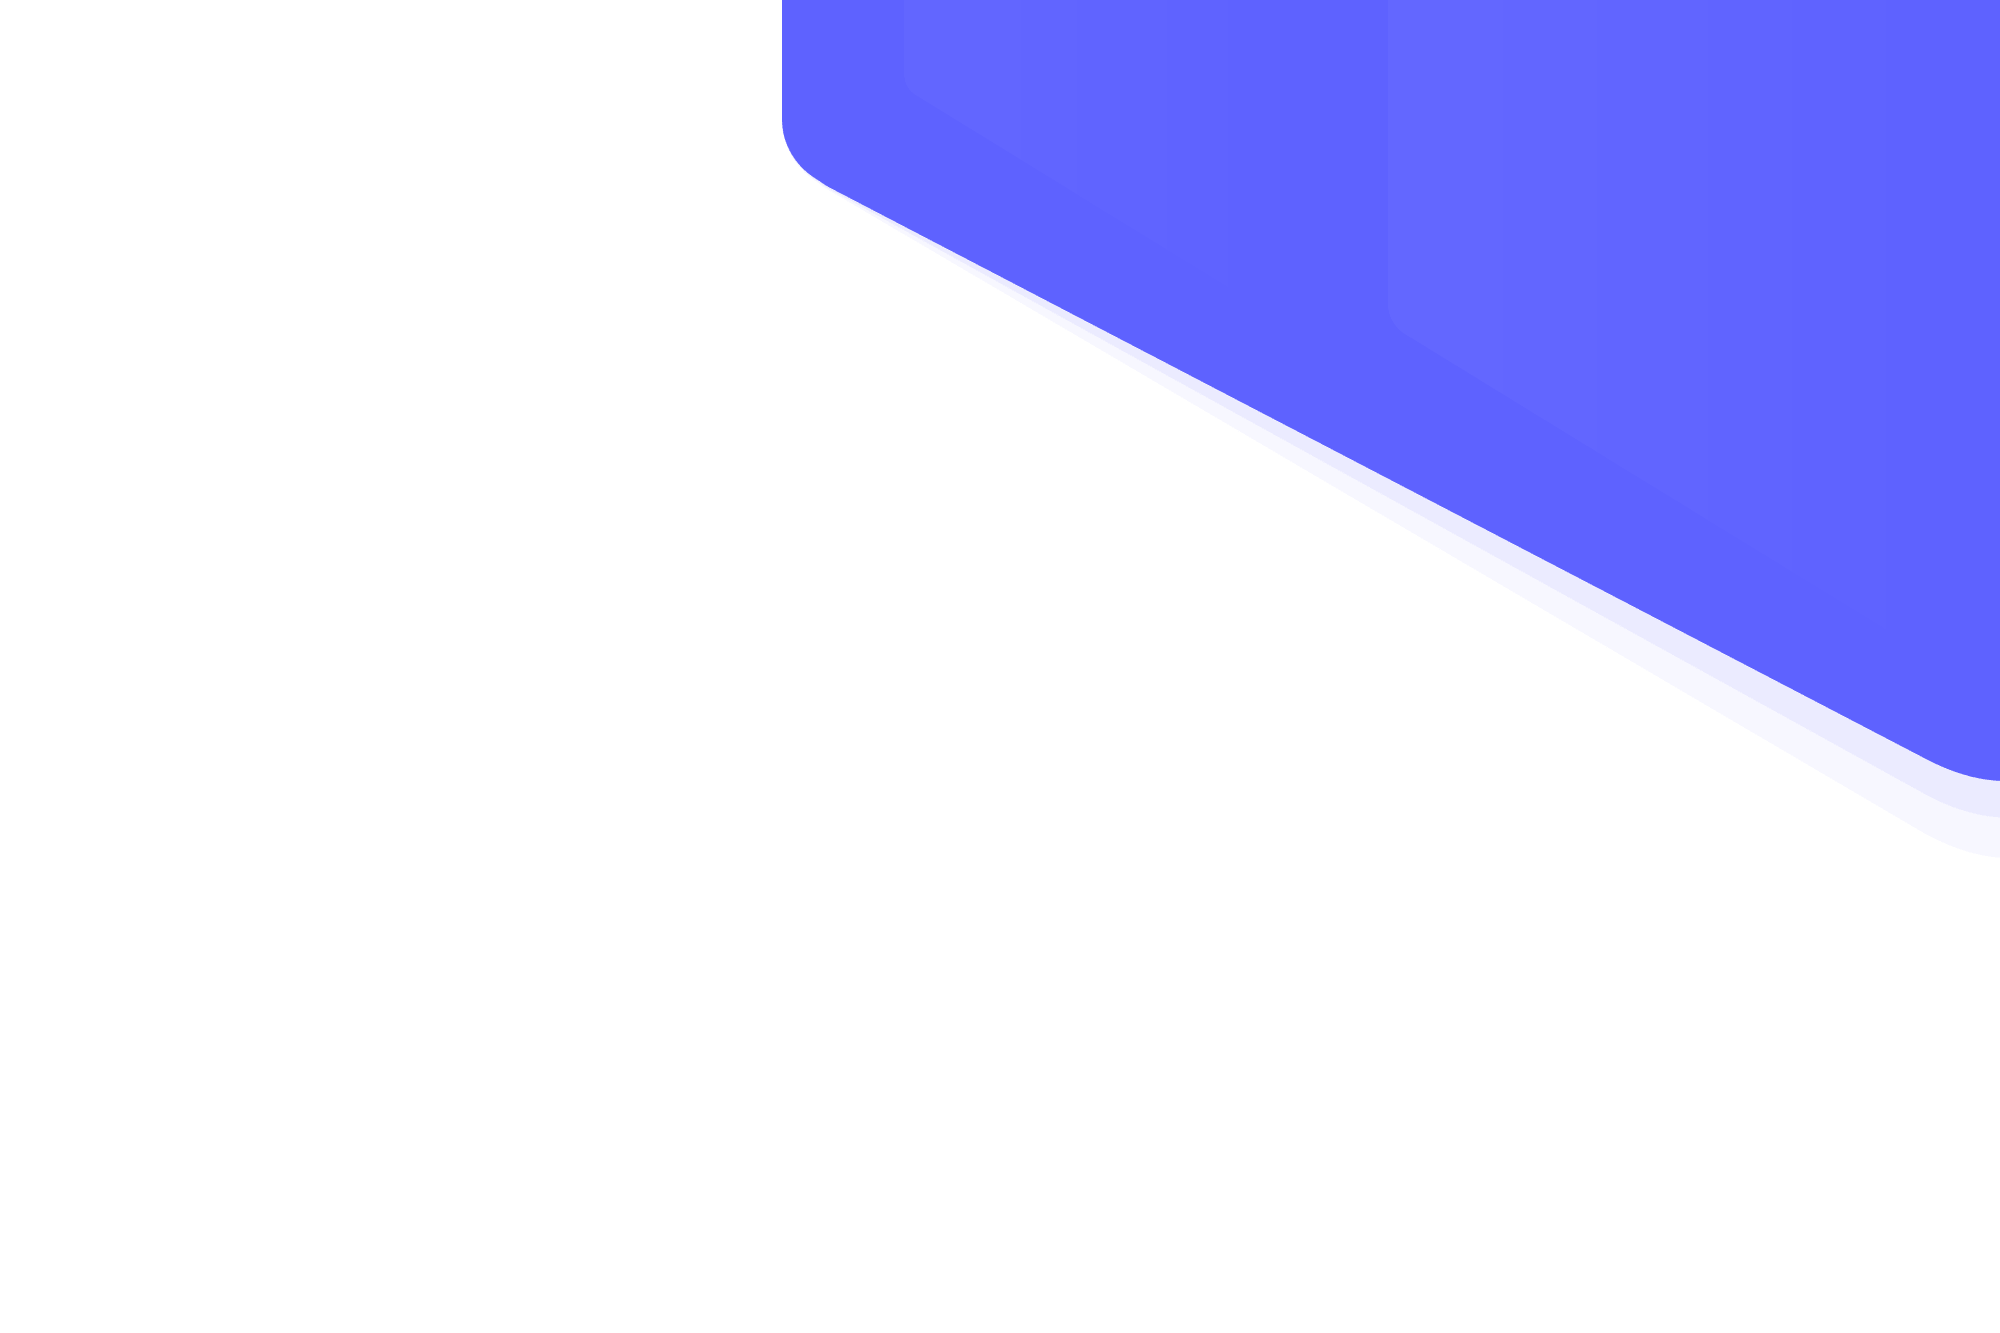
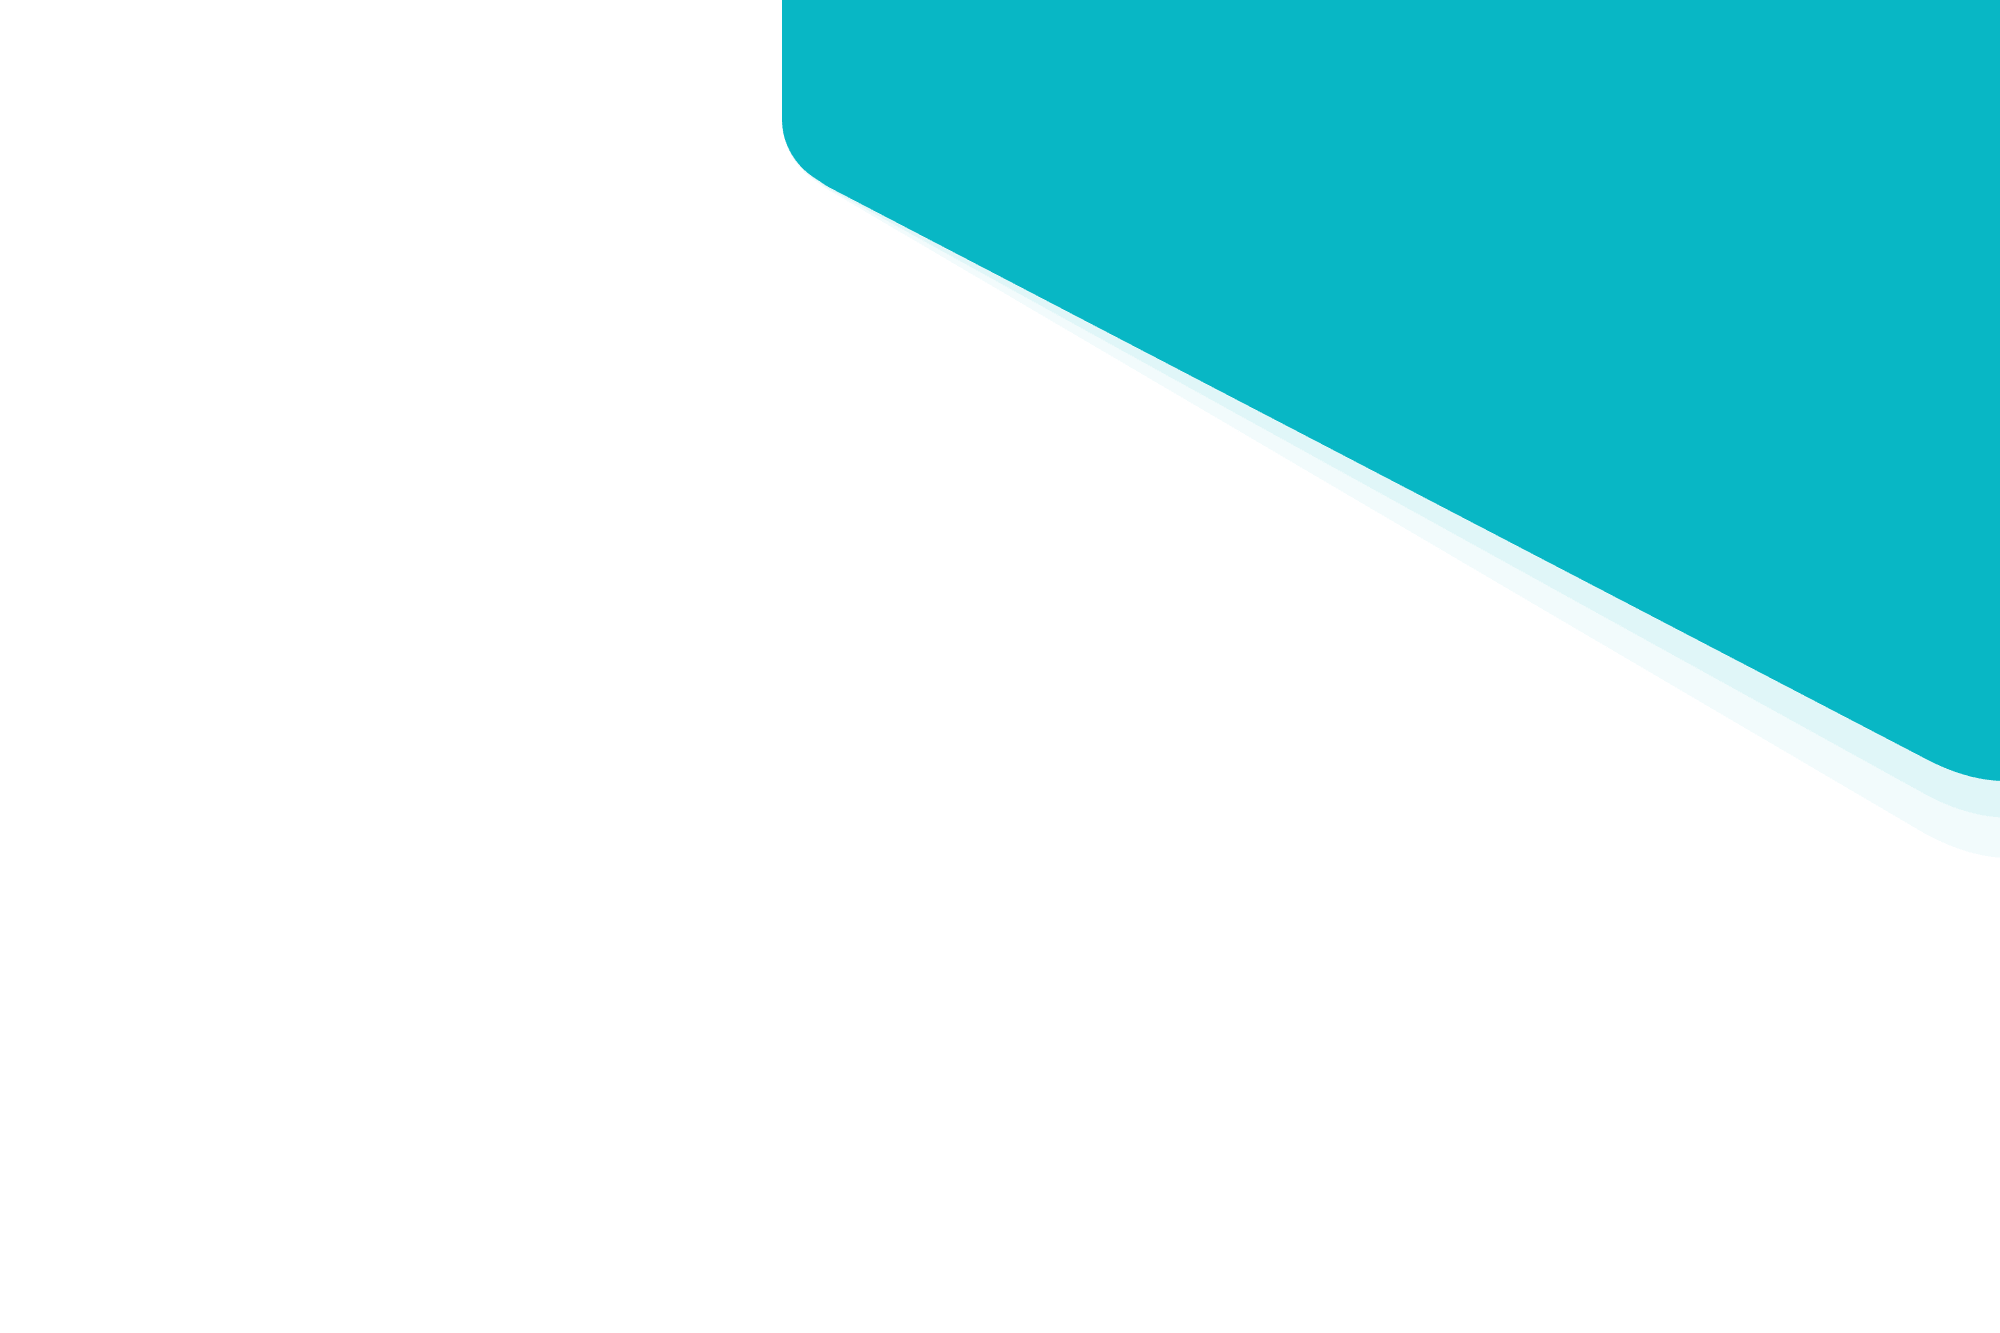
'update'

Changed region(s): [[0.372, 0.0, 1.0, 0.5844]]

diff --git a/public/ladun/neloz/css/style.css b/public/ladun/neloz/css/style.css
@@ -116,7 +116,7 @@ h1, h2, h3, h4, h5, h6 {
 .nav .open > a:focus,
 .nav .open > a:hover {
   background-color: transparent;
-  border-color: #5e62ff;
+  border-color: #08b7c5;
 }
 
 .menu-toggle {
@@ -151,7 +151,7 @@ h1, h2, h3, h4, h5, h6 {
 }
 
 .nav-sticky.navbar-custom .navbar-nav li.active a, .nav-sticky.navbar-custom .navbar-nav li a:hover, .nav-sticky.navbar-custom .navbar-nav li a:active {
-  color: #5e62ff !important;
+  color: #08b7c5 !important;
 }
 
 .nav-sticky .logo .logo-dark {
@@ -171,7 +171,7 @@ h1, h2, h3, h4, h5, h6 {
 }
 
 .navbar-light .navbar-nav li.active a, .navbar-light .navbar-nav li a:hover, .navbar-light .navbar-nav li a:active {
-  color: #5e62ff !important;
+  color: #08b7c5 !important;
 }
 
 @media (min-width: 200px) and (max-width: 768px) {
@@ -195,7 +195,7 @@ h1, h2, h3, h4, h5, h6 {
     border-color: transparent;
   }
   .navbar-custom .navbar-nav li.active a, .navbar-custom .navbar-nav li a:hover, .navbar-custom .navbar-nav li a:active {
-    color: #5e62ff !important;
+    color: #08b7c5 !important;
   }
   .navbar-custom > .container {
     width: 90%;
@@ -228,7 +228,7 @@ h1, h2, h3, h4, h5, h6 {
     color: #9090a5 !important;
   }
   .nav-dark .navbar-nav li.active a, .nav-dark .navbar-nav li a:hover, .nav-dark .navbar-nav li a:active {
-    color: #5e62ff !important;
+    color: #08b7c5 !important;
   }
 }
 
@@ -267,8 +267,8 @@ h1, h2, h3, h4, h5, h6 {
 }
 
 .btn.btn-primary {
-  background-color: #5e62ff !important;
-  border: 1px solid #5e62ff !important;
+  background-color: #08b7c5 !important;
+  border: 1px solid #08b7c5 !important;
   color: #ffffff;
   -webkit-box-shadow: 0 4px 20px rgba(94, 98, 255, 0.15);
           box-shadow: 0 4px 20px rgba(94, 98, 255, 0.15);
@@ -283,13 +283,13 @@ h1, h2, h3, h4, h5, h6 {
 }
 
 .btn.btn-outline-primary {
-  border: 1px solid #5e62ff !important;
-  color: #5e62ff !important;
+  border: 1px solid #08b7c5 !important;
+  color: #08b7c5 !important;
 }
 
 .btn.btn-outline-primary:hover, .btn.btn-outline-primary:focus, .btn.btn-outline-primary.focus, .btn.btn-outline-primary:active, .btn.btn-outline-primary.active {
-  background-color: #5e62ff !important;
-  border: 1px solid #5e62ff !important;
+  background-color: #08b7c5 !important;
+  border: 1px solid #08b7c5 !important;
   -webkit-box-shadow: 0 3px 10px rgba(94, 98, 255, 0.5);
           box-shadow: 0 3px 10px rgba(94, 98, 255, 0.5);
   color: #ffffff !important;
@@ -648,18 +648,18 @@ h1, h2, h3, h4, h5, h6 {
   background: rgba(94, 98, 255, 0.1);
   -webkit-box-shadow: 0 1px 2px rgba(94, 98, 255, 0.5);
           box-shadow: 0 1px 2px rgba(94, 98, 255, 0.5);
-  color: #5e62ff;
+  color: #08b7c5;
 }
 
 /* 
 // 04.Helper
 */
 .text-primary {
-  color: #5e62ff !important;
+  color: #08b7c5 !important;
 }
 
 .bg-primary {
-  background-color: #5e62ff !important;
+  background-color: #08b7c5 !important;
 }
 
 .text-secondary {
@@ -787,8 +787,8 @@ h1, h2, h3, h4, h5, h6 {
 }
 
 .bg-gradient-primary {
-  background: -webkit-gradient(linear, right bottom, left top, from(#56c6e6), to(#5e62ff));
-  background: linear-gradient(to top left, #56c6e6 0%, #5e62ff 100%);
+  background: -webkit-gradient(linear, right bottom, left top, from(#56c6e6), to(#08b7c5));
+  background: linear-gradient(to top left, #56c6e6 0%, #08b7c5 100%);
 }
 
 .line-height-1_6 {
@@ -848,7 +848,7 @@ h1, h2, h3, h4, h5, h6 {
 }
 
 .more-info {
-  color: #5e62ff;
+  color: #08b7c5;
 }
 
 /* 
@@ -860,8 +860,8 @@ h1, h2, h3, h4, h5, h6 {
   left: 0;
   right: 0;
   bottom: 0;
-  background: -webkit-gradient(linear, right bottom, left top, from(#56c6e6), to(#5e62ff));
-  background: linear-gradient(to top left, #56c6e6 0%, #5e62ff 100%);
+  background: -webkit-gradient(linear, right bottom, left top, from(#56c6e6), to(#08b7c5));
+  background: linear-gradient(to top left, #56c6e6 0%, #08b7c5 100%);
   z-index: 9999999;
 }
 
@@ -1026,7 +1026,7 @@ h1, h2, h3, h4, h5, h6 {
 .hero-1-bg .main-title {
   font-size: 2.8rem;
   line-height: 1.35;
-  color: #5e62ff;
+  color: #08b7c5;
 }
 
 .hero-2-bg {
@@ -1261,7 +1261,7 @@ h1, h2, h3, h4, h5, h6 {
   width: 74px;
   line-height: 74px;
   text-align: center;
-  color: #5e62ff;
+  color: #08b7c5;
   font-size: 30px;
   -webkit-transition: all 0.3s;
   transition: all 0.3s;
@@ -1327,7 +1327,7 @@ h1, h2, h3, h4, h5, h6 {
 
 .feature-box:after {
   content: "";
-  background: #5e62ff;
+  background: #08b7c5;
   height: 1px;
   width: 0%;
   position: absolute;
@@ -1358,7 +1358,7 @@ h1, h2, h3, h4, h5, h6 {
 // 11.Counter
 */
 .counter-bg {
-  background: #5e62ff;
+  background: #08b7c5;
 }
 
 .counter-bg .counter-bg-overlay {
@@ -1401,14 +1401,14 @@ h1, h2, h3, h4, h5, h6 {
 }
 
 .pricing-box.active .pricing-title, .pricing-box:hover .pricing-title {
-  color: #5e62ff;
+  color: #08b7c5;
 }
 
 .pricing-box .ribbon {
   position: absolute;
   left: 20px;
   top: 0px;
-  background: #5e62ff;
+  background: #08b7c5;
   padding: 8px 4px 16px 4px;
   -webkit-clip-path: polygon(0 0, 100% 0, 100% 100%, 50% 80%, 0 100%);
   clip-path: polygon(0 0, 100% 0, 100% 100%, 50% 80%, 0 100%);
@@ -1431,7 +1431,7 @@ h1, h2, h3, h4, h5, h6 {
 .owl-carousel.owl-theme .owl-dots .owl-dot:hover span {
   width: 20px;
   height: 4px;
-  background-color: #5e62ff;
+  background-color: #08b7c5;
 }
 
 .owl-carousel .testi-content {
@@ -1477,7 +1477,7 @@ h1, h2, h3, h4, h5, h6 {
 
 .testi-content-1:after {
   content: "";
-  background: #5e62ff;
+  background: #08b7c5;
   height: 1px;
   width: 0%;
   position: absolute;
@@ -1495,7 +1495,7 @@ h1, h2, h3, h4, h5, h6 {
 }
 
 .testi-content-1:hover .user-name {
-  color: #5e62ff !important;
+  color: #08b7c5 !important;
 }
 
 .testi-content-1:hover:after {
@@ -1509,7 +1509,7 @@ h1, h2, h3, h4, h5, h6 {
   -webkit-box-shadow: none;
           box-shadow: none;
   background-color: #fbfbfb;
-  border-color: #5e62ff;
+  border-color: #08b7c5;
 }
 
 .form-control {

diff --git a/resources/views/home/section_7.blade.php b/resources/views/home/section_7.blade.php
@@ -18,7 +18,7 @@
                 <div class="contact-address">
                     <h4 class="title mb-4">Informasi Kontak</h4>
                     <p class="text-muted f-15">Rumah Tahfidz Quran Al Haziq</p>
-                    <p class="text-muted f-15 mb-4">Jalan Tanjung Sari gang masjid, Batang Kuis. ( Samping masjid Baitul qudus)</p>
+                    <p class="text-muted f-15 mb-4">Jalan Tanjung Sari gang masjid, Batang Kuis. <br/>( Samping masjid Baitul qudus)</p>
                 </div>
                 <div class="row">
                     <div class="col-md-6">
@@ -39,7 +39,6 @@
             <div class="col-lg-7 offset-lg-1">
                 <div class="custom-form mt-4 mt-lg-0">
                     <div id="message"></div>
-                    <form method="post" action="php/contact.php" name="contact-form" id="contact-form">
                         <div class="row">
                             <div class="col-lg-6">
                                 <div class="form-group app-label">
@@ -51,6 +50,21 @@
                                 <div class="form-group app-label">
                                     <label for="email">Alamat Email</label>
                                     <input name="email" id="email" type="email" class="form-control" placeholder="Enter your email..">
+                                </div>
+                            </div>
+                            <div class="col-lg-6">
+                                <div class="form-group app-label">
+                                    <label for="name">Nomor Hp (Whatsapp)</label>
+                                    <input name="name" id="name" type="text" class="form-control" placeholder="Enter your name..">
+                                </div>
+                            </div>
+                            <div class="col-lg-6">
+                                <div class="form-group app-label">
+                                    <label for="email">Jenis Kelamin</label>
+                                    <select class="form-control">
+                                        <option>Laki Laki</option>
+                                        <option>Perempuan</option>
+                                    </select>
                                 </div>
                             </div>
                             <div class="col-lg-12">
@@ -82,7 +96,6 @@
                                 <div id="simple-msg"></div>
                             </div>
                         </div>
-                    </form>
                 </div>
             </div>
         </div>
@@ -111,34 +124,28 @@
             <div class="col-lg-7 offset-lg-1">
                 <div class="row">
                     <div class="col-md-4">
-                        <h5 class="footer-list-title f-18 font-weight-normal mb-3">Customer</h5>
+                        <h5 class="footer-list-title f-18 font-weight-normal mb-3">Mitra</h5>
                         <ul class="list-unstyled company-sub-menu">
-                            <li><a href="">Buyer</a></li>
-                            <li><a href="">Supplier</a></li>
+                            <li><a href="">Haura Grafika</a></li>
+                            <li><a href="">Nadhamedia</a></li>
                         </ul>
                     </div>
                     <div class="col-md-4">
-                        <h5 class="footer-list-title f-18 font-weight-normal mb-3">Company</h5>
+                        <h5 class="footer-list-title f-18 font-weight-normal mb-3">Tahfiz Al-Haziq</h5>
                         <ul class="list-unstyled company-sub-menu">
-                            <li><a href="">About</a></li>
-                            <li><a href="">Service</a></li>
-                            <li><a href="">Contact Us</a></li>
+                            <li><a href="">Tentang</a></li>
+                            <li><a href="">Kegiatan</a></li>
+                            <li><a href="">Donasi</a></li>
                         </ul>
                     </div>
-                    <div class="col-md-4">
-                        <h5 class="footer-list-title f-18 font-weight-normal mb-3">Further Information</h5>
-                        <ul class="list-unstyled company-sub-menu">
-                            <li><a href="">Term & Condition</a></li>
-                            <li><a href="">Privacy Policy</a></li>
-                        </ul>
-                    </div>
+                    
                 </div>
             </div>
         </div>
         <div class="row">
             <div class="col-lg-12 mt-5">
                 <div class="text-center footer-alt my-3">
-                    <p class="mb-0 f-15">2019 © Neloz. Design by Themesdesign</p>
+                    <p class="mb-0 f-15">2022 © Tahfiz Al-Haziq</p>
                 </div>
             </div>
         </div>

diff --git a/resources/views/home/section_1.blade.php b/resources/views/home/section_1.blade.php
@@ -5,9 +5,9 @@
             <div class="col-lg-6">
                 <div class="hero-title">
                     <p class="text-uppercase hero-small-title title font-weight-bold f-14 mb-4">Rumah Tahfiz Qur'an Al-Haqiz</p>
-                    <h1 class="font-weight-bold main-title mb-4">Menciptakan generasi qur'ani</h1>
+                    <h1 class="font-weight-bold main-title mb-4" style="color: #08b7c5;">Menciptakan generasi qur'ani</h1>
                     <p class="text-muted mb-4 pb-2">At vero eos et accusamus et iusto odio dignissimos ducimus qui blanditiis praesentium voluptatum deleniti atque corrupti quos dolores et quas molestias excepturi sint occaecati cupiditate.</p>
-                    <a href="" class="btn btn-primary rounded-pill">Find Out How <span class="ml-2 right-icon">&#8594;</span></a>
+                    
                 </div>
             </div>
             <div class="col-lg-5 offset-lg-1">

diff --git a/resources/views/layout/headerHome.blade.php b/resources/views/layout/headerHome.blade.php
@@ -43,7 +43,7 @@
         <div class="container">
             <!-- LOGO -->
             <a class="navbar-brand logo" href="layout-one-1.html">
-                <img src="{{ asset('/ladun/neloz') }}/images/logo-dark.png" alt="" class="" height="21">
+                <img src="{{ asset('/ladun/base') }}/img/logo.png" alt="" class="" height="41">
             </a>
             <button class="navbar-toggler" type="button" data-toggle="collapse" data-target="#navbarCollapse" aria-controls="navbarCollapse" aria-expanded="false" aria-label="Toggle navigation">
                 <i class="mdi mdi-menu"></i>

diff --git a/resources/views/home/section_3.blade.php b/resources/views/home/section_3.blade.php
@@ -15,7 +15,7 @@
                     <div class="service-icon icon-primary mb-4 mt-3">
                         <i class="mdi mdi-layers-triple"></i>
                     </div>
-                    <h4 class="mb-4 service-title">Dasar</h4>
+                    <h4 class="mb-4 service-title">Dasar (Iqro')</h4>
                     <p class="text-muted f-15">Pada kelas ini diperuntukkan untuk santri yang mulai belajar al-qur'an.</p>
                 </div>
             </div>

diff --git a/resources/views/home/section_5.blade.php b/resources/views/home/section_5.blade.php
@@ -1,5 +1,5 @@
 <!-- Counter Start -->
-<Section class="section counter-bg">
+<Section class="section counter-bg" style="background-color: #08b7c5;">
     <div class="counter-bg-overlay"></div>
     <div class="container">
         <div class="row align-items-center" id="counter">
